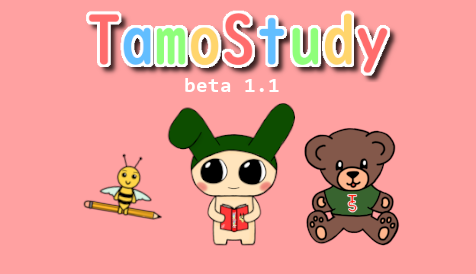
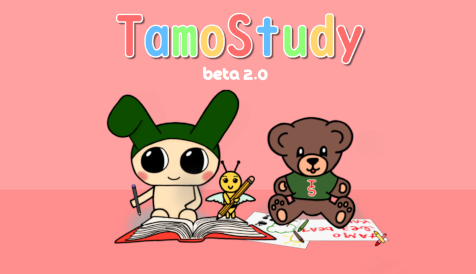
b1.4 gui updates 2

diff --git a/src/foodGUI.java b/src/foodGUI.java
@@ -72,6 +72,8 @@ public class foodGUI extends JFrame {
 		
 		initComponents();
 		
+		initComponentVisuals();
+		
 		setUpGUI();
 		
 		this.setSize(720, 300);
@@ -217,6 +219,74 @@ public class foodGUI extends JFrame {
 				
 			}
 			
+		});
+	}
+	
+	public void initComponentVisuals() {
+		returnToFocus.setBackground(Color.WHITE);
+		returnToFocus.setBorderPainted(false);
+		returnToFocus.setFocusPainted(false);
+		
+		returnToFocus.addMouseListener(new java.awt.event.MouseAdapter() {
+		    public void mouseEntered(java.awt.event.MouseEvent evt) {
+		    	if(returnToFocus.isEnabled())
+		    		returnToFocus.setBackground(Color.LIGHT_GRAY);
+		    }
+
+		    public void mouseExited(java.awt.event.MouseEvent evt) {
+		    	if(returnToFocus.isEnabled())
+		    		returnToFocus.setBackground(Color.WHITE);
+		    }
+		});
+		
+		
+		
+		food1BuyButton.setBackground(Color.WHITE);
+		food1BuyButton.setBorderPainted(false);
+		food1BuyButton.setFocusPainted(false);
+		
+		food1BuyButton.addMouseListener(new java.awt.event.MouseAdapter() {
+		    public void mouseEntered(java.awt.event.MouseEvent evt) {
+		    	if(food1BuyButton.isEnabled())
+		    		food1BuyButton.setBackground(Color.LIGHT_GRAY);
+		    }
+
+		    public void mouseExited(java.awt.event.MouseEvent evt) {
+		    	if(food1BuyButton.isEnabled())
+		    		food1BuyButton.setBackground(Color.WHITE);
+		    }
+		});
+		
+		food2BuyButton.setBackground(Color.WHITE);
+		food2BuyButton.setBorderPainted(false);
+		food2BuyButton.setFocusPainted(false);
+		
+		food2BuyButton.addMouseListener(new java.awt.event.MouseAdapter() {
+		    public void mouseEntered(java.awt.event.MouseEvent evt) {
+		    	if(food2BuyButton.isEnabled())
+		    		food2BuyButton.setBackground(Color.LIGHT_GRAY);
+		    }
+
+		    public void mouseExited(java.awt.event.MouseEvent evt) {
+		    	if(food2BuyButton.isEnabled())
+		    		food2BuyButton.setBackground(Color.WHITE);
+		    }
+		});
+		
+		food3BuyButton.setBackground(Color.WHITE);
+		food3BuyButton.setBorderPainted(false);
+		food3BuyButton.setFocusPainted(false);
+		
+		food3BuyButton.addMouseListener(new java.awt.event.MouseAdapter() {
+		    public void mouseEntered(java.awt.event.MouseEvent evt) {
+		    	if(food3BuyButton.isEnabled())
+		    		food3BuyButton.setBackground(Color.LIGHT_GRAY);
+		    }
+
+		    public void mouseExited(java.awt.event.MouseEvent evt) {
+		    	if(food3BuyButton.isEnabled())
+		    		food3BuyButton.setBackground(Color.WHITE);
+		    }
 		});
 	}
 	

diff --git a/src/welcomeGUI.java b/src/welcomeGUI.java
@@ -30,6 +30,9 @@ public class welcomeGUI extends JFrame {
 	
 	private JLabel imageLabel;
 	
+	//private JMenu menu;
+	private JButton updateProfile;
+	
 	/*
 	 * Variables, file information
 	 */
@@ -58,7 +61,7 @@ public class welcomeGUI extends JFrame {
 		
 		setUpGUI();
 		
-		this.setSize(550,350);
+		this.setSize(550,400);
 	}
 	
 	/*
@@ -72,8 +75,8 @@ public class welcomeGUI extends JFrame {
 		UI.put("OptionPane.background", new Color(255,161,161));
 		UI.put("Panel.background", new Color(255,161,161));
 		
-		this.setTitle("TamoStudy | beta 1.1");
-		this.setSize(550,349);
+		this.setTitle("TamoStudy | beta 2.0");
+		this.setSize(550,399);
 		this.setLocationRelativeTo(null);
 		this.setResizable(false);
 		this.setVisible(true);
@@ -85,6 +88,23 @@ public class welcomeGUI extends JFrame {
 	 * Method initializes the variables and components
 	 */
 	public void initVariables() {
+		updateProfile = new JButton("Update Existing Profile");
+		updateProfile.setBackground(Color.WHITE);
+		updateProfile.setBorderPainted(false);
+		updateProfile.setFocusPainted(false);
+		
+		updateProfile.addMouseListener(new java.awt.event.MouseAdapter() {
+		    public void mouseEntered(java.awt.event.MouseEvent evt) {
+		    	if(updateProfile.isEnabled())
+		    		updateProfile.setBackground(Color.LIGHT_GRAY);
+		    }
+
+		    public void mouseExited(java.awt.event.MouseEvent evt) {
+		    	if(updateProfile.isEnabled())
+		    		updateProfile.setBackground(Color.WHITE);
+		    }
+		});
+		
 		encryption = new Encryption();
 		
 		fileChooser = new JFileChooser();
@@ -309,6 +329,16 @@ public class welcomeGUI extends JFrame {
 			}
 			
 		});
+		
+		updateProfile.addActionListener(new ActionListener() {
+
+			@Override
+			public void actionPerformed(ActionEvent e) {
+				ProfileUpdater pu = new ProfileUpdater();
+				hideWindow();
+			}
+			
+		});
 	}
 	
 	/*
@@ -329,8 +359,11 @@ public class welcomeGUI extends JFrame {
 	}
 	
 	public void addComponentsToTopPanel() {
-		topPanel.setLayout(new BorderLayout());
-		topPanel.setBackground(new Color(255,161,161));
+		//topPanel.setLayout(new BorderLayout());
+		//topPanel.setBackground(new Color(255,161,161));
+		
+		//menu.add(updateProfile);
+		topPanel.add(updateProfile);
 	}
 	
 	public void addComponentsToCenterPanel() {

diff --git a/src/GUI.java b/src/GUI.java
@@ -5,6 +5,8 @@
 
 import javax.imageio.ImageIO;
 import javax.swing.*;
+import javax.swing.border.LineBorder;
+
 import java.awt.*;
 import java.awt.event.*;
 import java.awt.image.BufferedImage;
@@ -177,7 +179,7 @@ public class GUI extends JFrame {
 		UI.put("OptionPane.background", profile.getColor());
 		UI.put("Panel.background", profile.getColor());
 		
-		this.setTitle("TamoStudy | beta 1.1");
+		this.setTitle("TamoStudy | beta 2.0");
 		this.setSize(720,534);
 		this.setLocationRelativeTo(null);
 		this.setResizable(false);
@@ -221,6 +223,7 @@ public class GUI extends JFrame {
 		optionsButton = new JMenuItem(profile.getSettings().getLang().getText(8), new ImageIcon(getClass().getClassLoader().getResource("menu-options.png")));
 		ahmButton = new JMenuItem(profile.getSettings().getLang().getText(21), new ImageIcon(getClass().getClassLoader().getResource("menu-ahm.png")));
 		inventoryButton = new JMenuItem("Inventory", new ImageIcon(getClass().getClassLoader().getResource("menu-inventory.png")));
+		inventoryButton.setEnabled(false);
 		
 		//Other Menu Options
 		feedButton = new JButton(profile.getSettings().getLang().getText(6));
@@ -357,9 +360,12 @@ public class GUI extends JFrame {
 		secondBox = new JComboBox();
 		
 		minuteBox.setVisible(false);
+		minuteBox.setBackground(Color.WHITE);
 		secondBox.setVisible(false);
+		secondBox.setBackground(Color.WHITE);
 		
 		fiveIntervalBox = new JComboBox();
+		fiveIntervalBox.setBackground(Color.WHITE);
 				
 		timerSetPanel.add(minuteBox);
 		timerSetPanel.add(secondBox);

diff --git a/src/ProfileUpdater.java b/src/ProfileUpdater.java
@@ -116,6 +116,9 @@ public class ProfileUpdater extends JFrame {
 			public void actionPerformed(ActionEvent e) {
 				try {
 					updateProfileFile();
+					welcomeGUI gui = new welcomeGUI();
+					hideWindow();
+					
 				} catch (IOException e1) {
 					// TODO Auto-generated catch block
 				}
@@ -292,8 +295,12 @@ public class ProfileUpdater extends JFrame {
 		
 	}
 	
-	public static void main(String[] args) {
-		ProfileUpdater pu = new ProfileUpdater();
+	/*
+	 * Method hides the main windows and disposes it
+	 */
+	public void hideWindow() {
+		this.setVisible(false);
+		this.dispose();
 	}
 }
 

diff --git a/src/bgGUI.java b/src/bgGUI.java
@@ -88,7 +88,7 @@ public class bgGUI extends JFrame {
 		
 		mainPanel = new JPanel();
 		mainPanel.setBackground(p.getColor());
-		returnToFocus = new JButton(p.getSettings().getLang().getText(39));
+		returnToFocus = new JButton(p.getSettings().getLang().getText(23));
 		shopImage = new JLabel(new ImageIcon(getClass().getClassLoader().getResource("shop.png")));
 		
 		//Change background Panel
